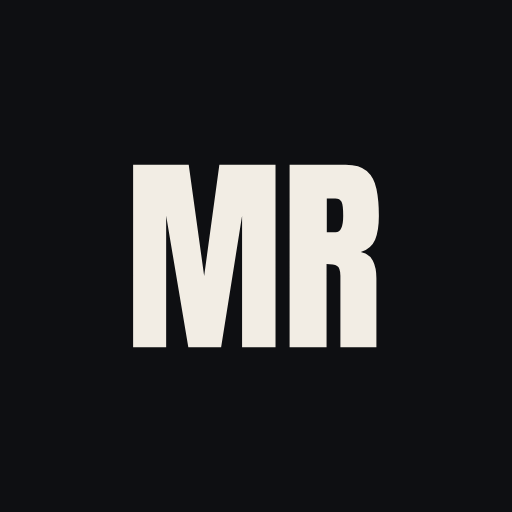
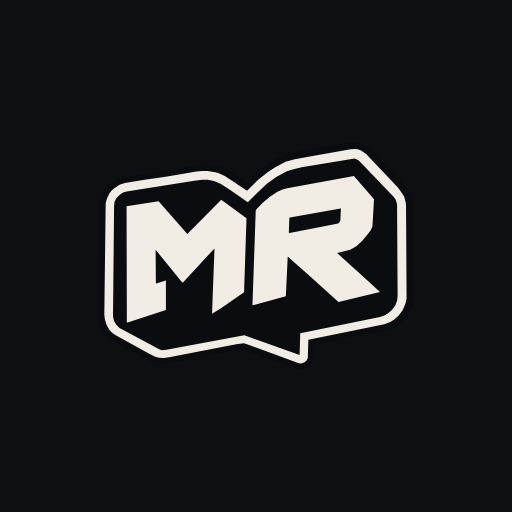
Add files via upload

Changed region(s): [[0.1875, 0.2812, 0.8125, 0.7188]]

diff --git a/index.html b/index.html
@@ -6,6 +6,10 @@
     <script>
       document.documentElement.classList.add("intro-wait");
     </script>
+    <!-- loader:start — Pantalla de carga (en cada carga de la página). Se genera con el logo en vector; ver README -->
+    <style>#mr-loader{display:none}.mr-ld #mr-loader{display:block;position:fixed;inset:0;z-index:9999;overflow:hidden;pointer-events:auto;animation:mrl-hide 0s linear 2.6s forwards}#mr-loader .mrl-in{position:absolute;inset:0}#mr-loader .mrl-st{position:absolute;inset:0;display:flex}#mr-loader .mrl-st i{flex:1;margin-right:-1px;position:relative;overflow:hidden}#mr-loader .mrl-st i::before,#mr-loader .mrl-st i::after{content:'';position:absolute;inset:0;animation:mrl-down .5s cubic-bezier(.7,0,.2,1) var(--d) forwards}#mr-loader .mrl-st i::before{background:#3cd3b7;animation-delay:calc(var(--d) + 120ms)}#mr-loader .mrl-st i::after{background:#0e0f12}#mr-loader .mrl-lg{position:absolute;inset:0;display:grid;place-items:center}#mr-loader .mrl-lg>div{width:min(62vw,390px);animation:mrl-out .3s cubic-bezier(.6,0,.9,.4) 1.45s forwards}#mr-loader svg{display:block;width:100%;height:auto;overflow:visible}#mr-loader path{transform-box:fill-box;transform-origin:center}#mr-loader .s{fill:#0b0c0f;stroke:#f2ede4;stroke-width:12;stroke-linejoin:round;paint-order:stroke;animation:mrl-grow .48s cubic-bezier(.2,.8,.2,1) both}#mr-loader .f,#mr-loader .m,#mr-loader .r,#mr-loader .v{fill:#f2ede4;animation:.48s cubic-bezier(.3,1.5,.5,1) var(--d) both}#mr-loader .f{animation-name:mrl-f;animation-duration:.38s}#mr-loader .m{animation-name:mrl-m}#mr-loader .r{animation-name:mrl-r}#mr-loader .v{animation-name:mrl-v;animation-duration:.36s;animation-timing-function:cubic-bezier(.2,.8,.2,1)}@keyframes mrl-grow{0%{transform:scale(.6,.05);opacity:0}70%{transform:scale(1.03);opacity:1}100%{transform:none;opacity:1}}@keyframes mrl-f{0%{transform:translateY(-55px);opacity:0}100%{transform:none;opacity:1}}@keyframes mrl-m{0%{transform:translateY(-150px) rotate(-10deg);opacity:0}100%{transform:none;opacity:1}}@keyframes mrl-r{0%{transform:translateY(150px) rotate(8deg);opacity:0}100%{transform:none;opacity:1}}@keyframes mrl-v{0%{transform:translateX(70px);opacity:0}100%{transform:none;opacity:1}}@keyframes mrl-out{0%{transform:none;opacity:1}100%{transform:scale(.9);opacity:0}}@keyframes mrl-down{to{transform:translateY(101%)}}@keyframes mrl-hide{to{visibility:hidden;pointer-events:none}}@media (prefers-reduced-motion:reduce){.mr-ld #mr-loader{display:none}}</style>
+    <script>(function(){var d=document.documentElement,ok=!(window.matchMedia&&matchMedia('(prefers-reduced-motion: reduce)').matches);if(!ok)return;d.classList.add('mr-ld');window.__mrReveal=performance.now()+1700;var stop=function(e){e.preventDefault()},o={passive:false};addEventListener('wheel',stop,o);addEventListener('touchmove',stop,o);setTimeout(function(){removeEventListener('wheel',stop,o);removeEventListener('touchmove',stop,o);d.classList.remove('mr-ld');var l=document.getElementById('mr-loader');if(l)l.remove()},2650)})();</script>
+    <!-- loader:end -->
     <meta name="viewport" content="width=device-width, initial-scale=1.0" />
     <title>Mauricio Ricotti | Full Stack Developer</title>
     <meta
@@ -22,7 +26,7 @@
     <meta name="theme-color" content="#0e0f12" />
     <meta name="color-scheme" content="dark" />
 
-    <!-- Íconos (monograma MR) -->
+    <!-- Íconos (logo MR) -->
     <link rel="icon" href="/favicon.ico" sizes="48x48" />
     <link rel="icon" href="/favicon.svg" type="image/svg+xml" />
     <link rel="apple-touch-icon" href="/apple-touch-icon.png" />
@@ -77,6 +81,9 @@
     </script>
   </head>
   <body>
+    <!-- loader-markup:start -->
+    <div id="mr-loader" aria-hidden="true"><div class="mrl-in"><div class="mrl-st"><i style="--d:1550ms"></i><i style="--d:1605ms"></i><i style="--d:1660ms"></i><i style="--d:1715ms"></i><i style="--d:1770ms"></i><i style="--d:1825ms"></i><i style="--d:1880ms"></i></div><div class="mrl-lg"><div><svg viewBox="-11 -12 782 721" fill-rule="evenodd"><path class="s" d="M755 149L645 65 526 93 526 91 528 83 528 72 470 2 430 10 313 35 296 38 67 88 55 110 55 190 48 193 17 201 3 207 3 612 107 692 269 662 345 649 409 676 457 695 458 629 459 628 705 583 757 551 756 191 755 188Z"/><path class="f" style="--d:300ms" d="M128 103L94 111 93 154 94 155 105 152 106 137 119 134 123 130 124 123 124 121 107 125 106 124 106 121 110 119 127 116 128 115 128 104Z"/><path class="f" style="--d:332ms" d="M171 94L159 97 158 124 157 126 155 129 151 130 147 130 145 128 144 126 144 100 132 103 132 132 133 137 137 141 143 143 152 143 160 139 166 134 170 128 171 122Z"/><path class="f" style="--d:364ms" d="M188 91L176 94 175 137 204 131 205 118 189 122 188 121Z"/><path class="f" style="--d:396ms" d="M221 83L209 86 208 129 209 130 237 124 238 111 224 114 221 114Z"/><path class="f" style="--d:428ms" d="M295 68L272 72 267 74 262 79 258 87 258 92 260 96 262 99 267 101 272 101 283 98 285 100 283 102 261 107 260 108 260 119 285 114 289 113 294 108 297 102 297 95 296 92 293 88 290 86 287 86 272 89 271 87 272 85 295 81 295 79Z"/><path class="f" style="--d:460ms" d="M333 60L303 66 299 68 299 79 301 80 308 78 310 79 309 109 321 107 322 106 322 76 323 75 332 73 333 72Z"/><path class="f" style="--d:492ms" d="M360 55L354 55 344 58 331 97 329 105 341 102 343 101 344 96 358 93 360 95 361 98 374 95 370 81ZM352 72L356 83 355 84 348 85 348 84 351 73Z"/><path class="f" style="--d:524ms" d="M411 44L408 44 405 46 397 46 390 48 383 52 378 57 375 64 373 71 373 77 375 84 377 87 380 89 387 92 392 92 404 89 408 86 412 79 410 76 406 74 399 78 393 79 391 79 387 76 386 73 386 69 388 64 392 61 398 59 404 59 408 58 411 51Z"/><path class="f" style="--d:556ms" d="M457 35L442 38 428 57 428 41 423 41 416 43 415 87 416 87 427 85 428 71 430 69 442 82 456 78 441 59 457 35Z"/><path class="m" style="--d:430ms" d="M264 173L262 172 199 186 149 258 105 210 101 207 36 222 36 228 36 398 37 398 96 385 97 303 99 305 149 366 203 280 204 281 204 362 207 362 263 350 263 349Z"/><path class="m" style="--d:510ms" d="M402 143L324 159 322 161 269 333 265 350 325 337 330 325 333 321 386 281 387 281 402 322 462 309 403 145ZM363 218L365 221 379 261 375 262 348 268 347 267Z"/><path class="m" style="--d:590ms" d="M618 98L561 110 561 232 548 235 509 243 507 242 508 122 506 121 451 133 451 236 474 296 491 304 585 284 613 278 618 277 619 99Z"/><path class="r" style="--d:560ms" d="M190 391L188 391 168 396 46 422 36 425 36 601 94 589 94 532 95 532 152 579 227 562 227 561 175 517 175 515 180 513 216 480 216 411ZM158 454L157 463 155 468 147 476 141 478 99 487 93 487 93 468 94 467 156 454Z"/><path class="r" style="--d:630ms" d="M378 351L361 354 300 368 248 378 233 382 233 436 235 436 275 428 276 428 276 554 332 542 335 541 334 416 337 415 378 406Z"/><path class="r" style="--d:700ms" d="M539 318L431 340 426 342 407 345 395 348 395 402 400 402 434 395 435 395 436 522 495 509 495 383 498 382 527 376 532 375 536 374 539 373Z"/><path class="r" style="--d:770ms" d="M616 303L557 315 556 316 556 497 557 498 615 485Z"/><path class="v" style="--d:760ms" d="M674 134L674 159 675 163 678 171 682 175 690 182 700 187 705 189 711 189 715 188 719 185 721 182 723 178 723 156 713 151ZM688 154L689 154 710 163 710 171 709 173 706 175 702 175 698 174 692 170 689 167 688 162Z"/><path class="v" style="--d:788ms" d="M675 184L674 217 683 222 688 223 688 203 688 202 692 204 693 205 693 219 696 220 705 223 705 210 706 210 709 211 710 212 710 232 723 237 723 204 712 198Z"/><path class="v" style="--d:816ms" d="M674 240L674 253 716 283 723 287 723 274 723 272 695 255 695 254 723 256 723 242Z"/><path class="v" style="--d:844ms" d="M675 273L674 306 684 311 688 311 688 292 689 291 693 293 693 307 694 308 705 311 705 299 706 298 709 299 710 300 710 320 723 325 723 292Z"/><path class="v" style="--d:872ms" d="M674 315L674 342 675 345 687 350 688 333 689 332 722 346 723 345 723 334 683 317 676 314Z"/><path class="v" style="--d:900ms" d="M677 360L675 363 674 368 675 378 678 384 685 392 695 398 705 401 710 401 715 400 718 398 721 395 724 389 723 380 719 371 712 363 702 357 692 354 683 355ZM689 370L692 368 695 368 703 371 708 376 710 380 710 384 709 386 706 388 702 388 698 387 693 384 688 378 688 372Z"/><path class="v" style="--d:928ms" d="M675 398L674 410 676 411 686 415 689 416 689 430 691 434 694 439 700 443 706 446 714 447 719 445 721 442 723 436 723 415ZM702 421L708 423 710 424 710 431 708 434 704 433 702 430 701 421Z"/><path class="v" style="--d:956ms" d="M675 441L675 474 686 479 688 479 688 459 690 459 692 460 693 461 693 475 705 478 705 466 706 465 709 466 710 467 710 487 723 492 723 459 721 457Z"/><path class="v" style="--d:984ms" d="M675 482L674 483 675 496 688 500 689 502 674 509 674 522 675 522 689 517 693 525 700 531 708 533 714 533 718 531 722 526 723 521 723 500ZM701 505L710 508 710 517 707 520 704 519 701 515 701 506Z"/></svg></div></div></div></div>
+    <!-- loader-markup:end -->
     <div id="root"></div>
     <script type="module" src="/src/main.tsx"></script>
   </body>

diff --git a/src/components/Header.tsx b/src/components/Header.tsx
@@ -1,3 +1,4 @@
+import LogoMark from "./LogoMark";
 import { useEffect, useState } from "react";
 import { ArrowUpRight, Download, Volume2, VolumeX } from "lucide-react";
 import { sound } from "../lib/sound";
@@ -91,8 +92,7 @@ export default function Header({
         } ${solid ? "bg-[#0e0f12]/75 backdrop-blur-[8px] border-white/10" : "bg-transparent border-transparent"}`}
       >
         <div className="max-w-[88rem] mx-auto px-4 sm:px-6 lg:px-8 flex items-center justify-between">
-          {/* Logo: monograma "MR" en la tipografía del título + nombre.
-              En celular no se muestra el monograma: el nombre queda alineado a la izquierda. */}
+          {/* Logo: solo el sticker "MR" (en PC y en celular). El nombre queda para lectores de pantalla. */}
           <button
             onClick={() => {
               sound.playClick();
@@ -100,22 +100,12 @@ export default function Header({
               scrollToTop();
             }}
             title={ui.goHome}
-            className="group flex items-center gap-3 whitespace-nowrap focus:outline-none cursor-pointer"
+            className="group flex items-center focus:outline-none cursor-pointer rounded-md focus-visible:ring-2 focus-visible:ring-[#3cd3b7]/60"
           >
-            <span
-              aria-hidden="true"
-              className="hidden md:inline font-hero uppercase leading-none text-[2rem] tracking-[-0.01em] text-[#f2ede4] group-hover:text-[#3cd3b7] group-focus-visible:text-[#3cd3b7] transition-colors duration-200"
-            >
-              MR
+            <LogoMark className="h-10 md:h-11 w-auto text-[#f2ede4] group-hover:text-[#3cd3b7] group-focus-visible:text-[#3cd3b7] transition-[color,transform] duration-200 group-active:scale-95" />
+            <span className="sr-only">
+              {name}, {ui.goHome.toLowerCase()}
             </span>
-            <span
-              aria-hidden="true"
-              className="hidden md:block w-px h-6 bg-white/20"
-            />
-            <span className="font-hero uppercase leading-none tracking-[0.02em] text-[1.4rem] sm:text-2xl md:text-xl text-[#f2ede4] md:text-white/80 group-hover:text-white md:group-hover:text-white transition-colors duration-200">
-              {name}
-            </span>
-            <span className="sr-only">, {ui.goHome.toLowerCase()}</span>
           </button>
 
           <nav className="hidden md:flex items-center gap-8">

diff --git a/src/components/LogoMark.tsx b/src/components/LogoMark.tsx
@@ -1,0 +1,16 @@
+/** Logo "MR" (sticker) en vector. El borde y las letras usan el color del texto
+ *  (`currentColor`), así cambian de color con hover; el fondo es casi negro. */
+export default function LogoMark({ className = "" }: { className?: string }) {
+  return (
+    <svg
+      viewBox="5 0 1170 844"
+      fillRule="evenodd"
+      aria-hidden="true"
+      focusable="false"
+      className={className}
+    >
+      <path fill="#0b0c0f" d="M1159 192L1151 178 1138 160 1015 29 998 16 986 10 970 6 959 4 945 4 790 30 729 43 693 54 661 69 629 89 598 113 556 153 554 153 502 116 478 103 464 97 442 91 410 87 390 88 254 110 144 126 100 133 81 139 65 148 54 156 42 167 32 179 22 199 18 212 14 228 9 642 10 658 16 681 23 694 31 706 44 721 54 729 79 744 149 782 208 814 220 818 236 820 263 818 422 788 515 770 544 767 742 838 758 840 768 839 778 836 784 832 792 824 802 810 805 795 806 750 806 749 1072 696 1092 688 1106 681 1120 672 1138 654 1154 634 1160 622 1166 607 1170 590 1171 576 1168 227 1166 210Z" />
+      <path fill="currentColor" d="M1137 204L1128 190 1114 171 997 47 978 34 966 30 956 29 940 30 779 58 734 66 700 76 662 96 635 113 599 142 558 183 507 148 476 128 456 119 441 114 412 110 394 110 372 112 264 130 175 143 108 154 88 160 70 172 59 182 51 192 42 210 37 229 32 640 34 656 40 676 51 696 62 707 74 715 196 782 219 794 234 798 251 799 266 797 518 748 546 745 558 748 749 818 758 819 768 816 776 810 781 802 782 796 784 732 1064 675 1086 666 1102 656 1117 642 1132 622 1142 598 1146 580 1144 234 1142 222ZM1106 216L1111 232 1113 572 1111 588 1104 606 1091 623 1078 634 1064 642 1048 648 754 708 752 782 752 788 548 715 261 769 244 770 236 768 88 688 76 676 68 663 64 646 68 237 70 222 77 209 88 198 101 189 114 185 364 146 392 142 413 142 436 147 462 158 496 180 561 225 600 186 630 158 667 131 705 111 726 104 759 96 938 66 954 64 967 69 977 78 1099 206ZM556 284L463 216 338 342 232 221 114 240 115 668 118 668 259 622 259 514 258 513 224 524 222 523 221 400 316 517 321 522 437 396 438 396 429 636 462 616 547 557ZM952 128L706 173 689 178 670 186 641 206 614 229 592 252 590 256 578 605 701 571 708 425 718 434 788 496 895 593 1048 556 1007 518 890 412 898 410 938 400 953 392 962 386 982 368 1002 344 1014 328 1020 314 1022 285 1026 214ZM904 248L902 292 898 300 894 303 715 338 712 337 714 282 716 281 903 248Z" />
+    </svg>
+  );
+}

diff --git a/src/main.tsx b/src/main.tsx
@@ -4,19 +4,25 @@ import "@fontsource-variable/plus-jakarta-sans";
 import "./index.css";
 import App from "./App";
 import { LangProvider } from "./i18n";
+import { loaderDelay } from "./lib/loader";
 
 // Animación de entrada: arranca cuando la tipografía del título ya cargó
 // (si no, se animaría con las letras todavía invisibles). Máximo 1,5 s de espera.
+// Si se está mostrando la pantalla de carga, espera a que empiece a abrirse.
 {
   const root = document.documentElement;
   let started = false;
   const go = () => {
     if (started) return;
     started = true;
-    requestAnimationFrame(() => {
-      root.classList.remove("intro-wait");
-      root.classList.add("intro-go");
-    });
+    setTimeout(
+      () =>
+        requestAnimationFrame(() => {
+          root.classList.remove("intro-wait");
+          root.classList.add("intro-go");
+        }),
+      loaderDelay(),
+    );
   };
   document.fonts?.load('400 1em "Anton"').then(go, go);
   setTimeout(go, 1500);

diff --git a/src/components/HeroBadge.tsx b/src/components/HeroBadge.tsx
@@ -1,4 +1,5 @@
 import { lazy, Suspense, useEffect, useRef, useState } from "react";
+import { loaderDelay } from "../lib/loader";
 import type { BadgeArt, BadgeDesign, BadgeTexts } from "../lib/badgeArt";
 
 /**
@@ -50,7 +51,7 @@ export default function HeroBadge({ texts }: { texts: BadgeTexts }) {
   // Espera a que termine la entrada del título; mientras, baja three.js en paralelo
   useEffect(() => {
     import("./Lanyard");
-    const t = window.setTimeout(() => setShow(true), 1300);
+    const t = window.setTimeout(() => setShow(true), 1300 + loaderDelay());
     return () => clearTimeout(t);
   }, []);
 

diff --git a/src/lib/loader.ts b/src/lib/loader.ts
@@ -1,0 +1,6 @@
+/** Pantalla de carga (está en index.html): cuántos ms faltan para que empiece a abrirse.
+ *  0 si no se muestra (ya se vio en esta visita o "reducir movimiento" está activado). */
+export function loaderDelay(): number {
+  const at = (window as Window & { __mrReveal?: number }).__mrReveal;
+  return typeof at === "number" ? Math.max(0, at - performance.now()) : 0;
+}

diff --git a/README.md b/README.md
@@ -109,7 +109,7 @@ MIT + Commons Clause; usa `three`). Se carga aparte, después de la animación d
 - **Etiquetas:** título, descripción, Open Graph (WhatsApp, LinkedIn, Facebook, Discord), Twitter/X y datos
   estructurados de Google (persona + profesión) están en `index.html`.
 - **Imagen al compartir:** `public/og-image.jpg` (1200×630). Reemplazala por otra del mismo tamaño si querés.
-- **Favicon (monograma MR):** `public/favicon.svg`, `favicon.ico`, `apple-touch-icon.png`, `icon-192.png`,
+- **Favicon (logo MR):** `public/favicon.svg`, `favicon.ico`, `apple-touch-icon.png`, `icon-192.png`,
   `icon-512.png`, `icon-maskable-512.png` y `site.webmanifest`.
 - **Probar la vista previa** después de publicar: https://www.opengraph.xyz o el "Post Inspector" de LinkedIn.
   WhatsApp guarda la vista previa en caché: si cambiás la imagen, puede tardar en actualizarse.
@@ -124,6 +124,20 @@ MIT + Commons Clause; usa `three`). Se carga aparte, después de la animación d
 - La sección de proyectos dibuja solo el diseño de la pantalla actual (paneles en PC, franjas en celular).
 - Lighthouse (local): celular 98 · 100 · 100 · 100 — PC 100 · 100 · 100 · 100
   (rendimiento · accesibilidad · buenas prácticas · SEO).
+
+## Pantalla de carga y logo
+
+- **Pantalla de carga** (al entrar a la web): el logo MAURTTI se arma pieza por pieza y la pantalla
+  se va en franjas verticales (negras y después turquesas, como una ola; ≈2,5 s). Está **dentro de `index.html`** (bloques
+  `loader:start` / `loader-markup:start`), así aparece al instante sin esperar a que cargue nada.
+  - Se muestra **cada vez que se carga o recarga la página**.
+  - Con "reducir movimiento" activado en el sistema no se muestra.
+  - El título del hero y la credencial esperan a que las franjas empiecen a abrirse (`src/lib/loader.ts`).
+- **Logo MR** en la barra (solo el logo, sin el nombre, en PC y celular): `src/components/LogoMark.tsx`.
+  Con el mouse encima, el borde y las letras se ponen turquesa.
+- **Favicon e íconos:** `public/favicon.svg`, `favicon.ico`, `apple-touch-icon.png`, `icon-192.png`,
+  `icon-512.png`, `icon-maskable-512.png` (todos con el logo MR).
+- Los dos logos en vector (para usar donde quieras): `src/assets/logo/logo-mauritti.svg` y `logo-mr.svg`.
 
 ## Footer
 
